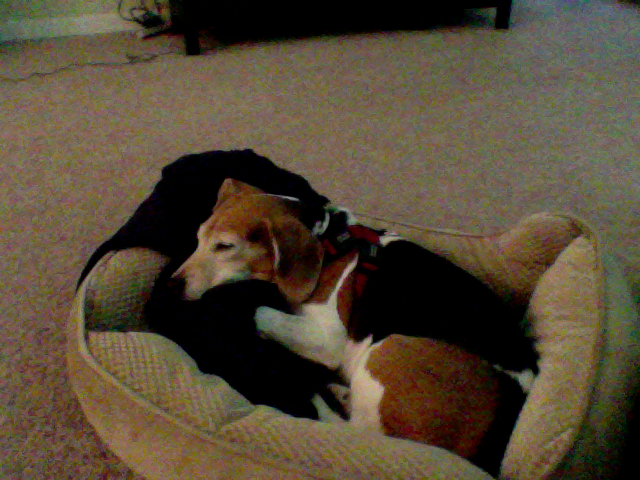
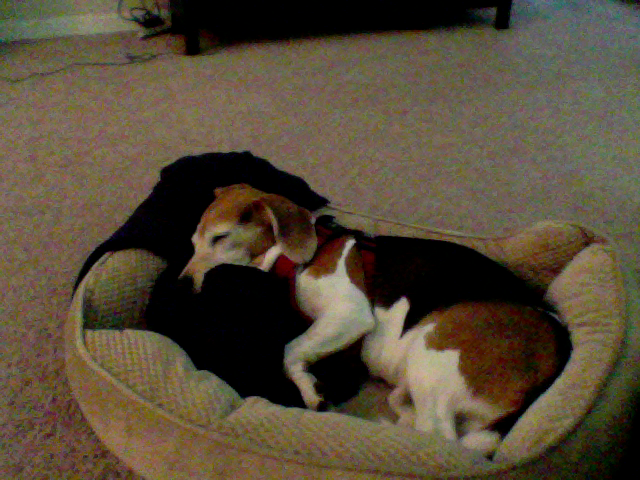
update at Month05Day12Time10:47

diff --git a/index.html b/index.html
@@ -39,8 +39,8 @@
       <!-- Example row of columns -->
       <div class="row">
         <div class="col-md-4">
-	<p>This picture was updated at Month05Day12Time10:46</p>
-		<img src="5_pic.png" />
+	<p>This picture was updated at Month05Day12Time10:47</p>
+		<img src="6_pic.png" />
         </div>
       </div>
 
